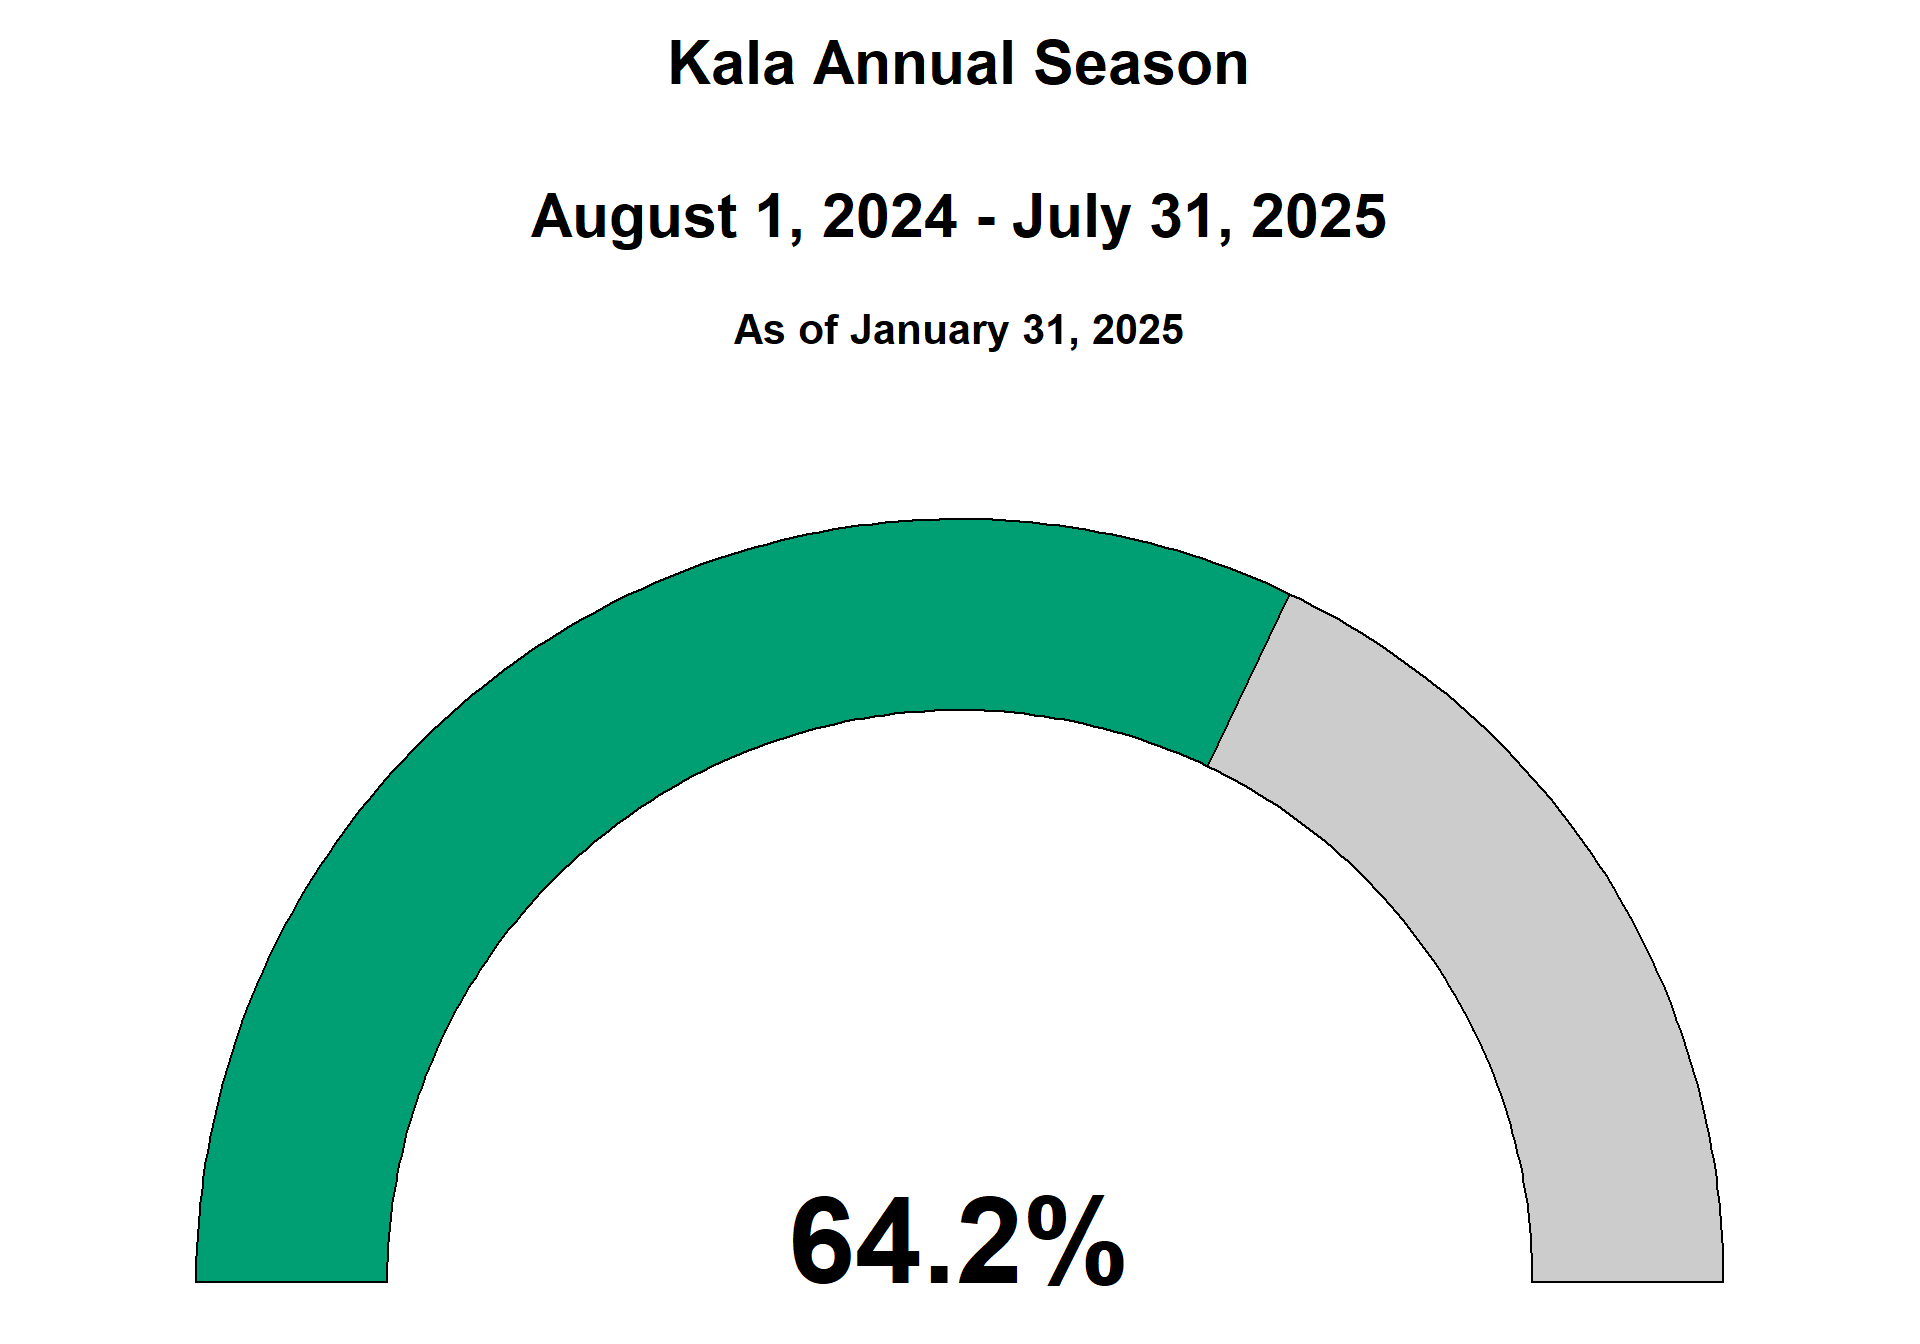
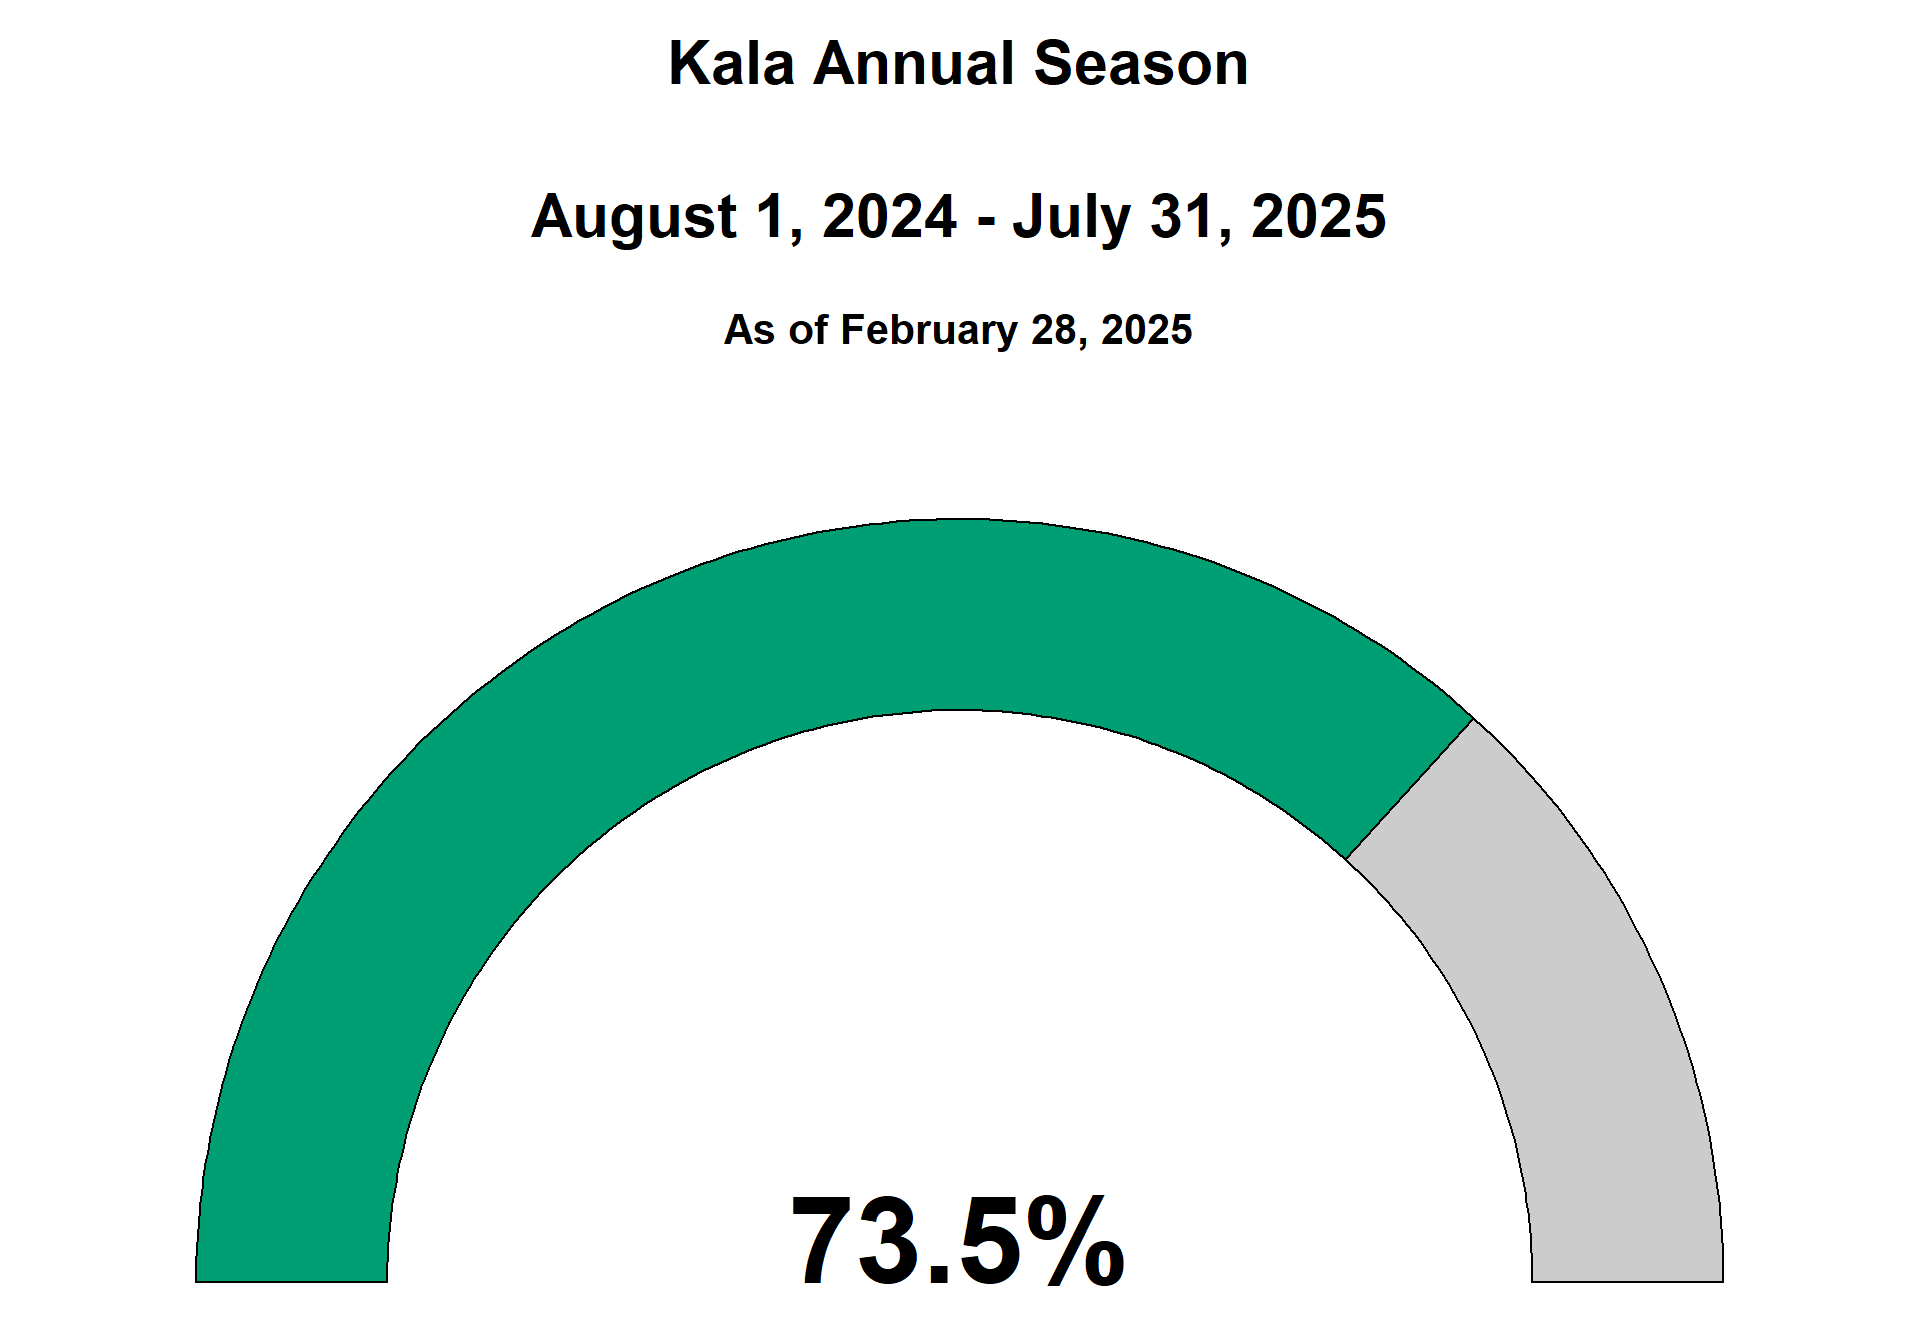
Update dashboard to reflect February data.

diff --git a/Uku_KonaCrab_dashboard.html b/Uku_KonaCrab_dashboard.html
@@ -651,7 +651,7 @@ window.document.addEventListener("DOMContentLoaded", function (event) {
     <div class="nav-footer-left">
       <ul class="footer-items list-unstyled">
     <li class="nav-item">
- Uploaded on February 28, 2025
+ Uploaded on April 01, 2025
   </li>  
 </ul>
     </div>   

diff --git a/index.html b/index.html
@@ -654,7 +654,7 @@ window.document.addEventListener("DOMContentLoaded", function (event) {
     <div class="nav-footer-left">
       <ul class="footer-items list-unstyled">
     <li class="nav-item">
- Uploaded on February 28, 2025
+ Uploaded on April 01, 2025
   </li>  
 </ul>
     </div>   

diff --git a/kala_uhu_dashboard.html b/kala_uhu_dashboard.html
@@ -651,7 +651,7 @@ window.document.addEventListener("DOMContentLoaded", function (event) {
     <div class="nav-footer-left">
       <ul class="footer-items list-unstyled">
     <li class="nav-item">
- Uploaded on February 04, 2025
+ Uploaded on April 01, 2025
   </li>  
 </ul>
     </div>   

diff --git a/deep_seven_dashboard.html b/deep_seven_dashboard.html
@@ -667,7 +667,7 @@ window.document.addEventListener("DOMContentLoaded", function (event) {
     <div class="nav-footer-left">
       <ul class="footer-items list-unstyled">
     <li class="nav-item">
- Uploaded on January 30, 2025
+ Uploaded on April 01, 2025
   </li>  
 </ul>
     </div>   
